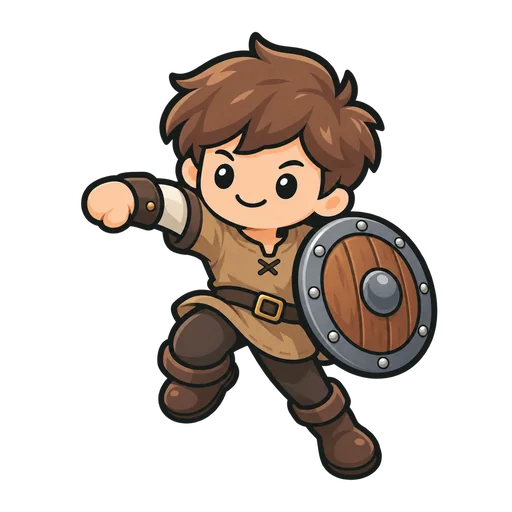
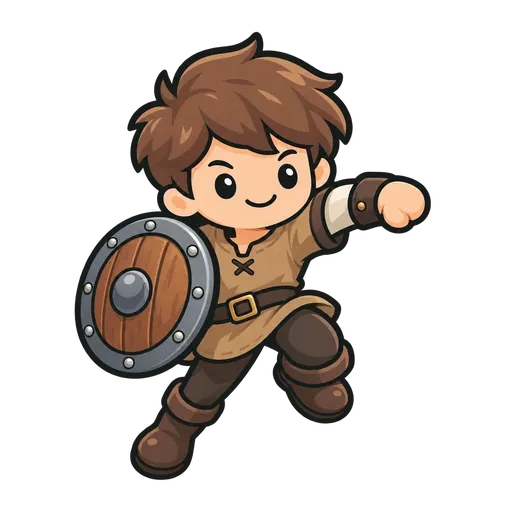
Hero pictures stored facing right (toward the monster)
Claude-Session: https://claude.ai/code/session_016qs5P8iCHLFro2wJwMCrvv

diff --git a/index.html b/index.html
@@ -719,9 +719,9 @@ body.onb-open{overflow:hidden}
 .gen-opt.on{border-color:var(--accent);box-shadow:0 0 0 3px color-mix(in srgb,var(--accent) 25%,transparent)}
 .gen-fig{width:110px;height:118px}.gen-fig .hero-svg{width:100%;height:100%}
 .gen-ask{border:1.5px solid color-mix(in srgb,var(--accent) 45%,var(--line));border-radius:12px;padding:10px 12px;display:flex;flex-direction:column;gap:8px}
-.hero-art{position:relative;display:block}.hero-art .ha-in{position:relative;width:100%;height:100%;transform:scaleX(-1)}
+.hero-art{position:relative;display:block}.hero-art .ha-in{position:relative;width:100%;height:100%}
 .hero-art img{position:relative;display:block;width:100%;height:100%;object-fit:contain;pointer-events:none;user-select:none}
-.hero-art .ha-wpn{position:absolute;inset:0;width:100%;height:100%;overflow:visible;pointer-events:none}
+.hero-art .ha-wpn{position:absolute;inset:0;width:100%;height:100%;overflow:visible;pointer-events:none;transform:scaleX(-1)}
 .hero-stage .hs-fig .hero-art{position:relative;z-index:1;width:100%;height:100%}
 .onb-art{width:200px;max-width:70%;height:auto;margin-top:4px}.onb-art.sm{width:150px}
 .play-head{display:flex;align-items:center;gap:10px}.play-head>div{flex:1;min-width:0}.play-art{width:110px;height:auto;flex:none}
@@ -2650,7 +2650,7 @@ function devPanel(){
     ${devStatsHtml()}
     <button class="btn" data-act="devexit" style="background:var(--bad)">${T("devExit")}</button></section>`;
 }
-const APP_VERSION="2026.10.70";
+const APP_VERSION="2026.10.71";
 const SUPPORT_ON=false;   // 「贊助開發者」card: hidden until the official release (still shown in developer mode for preview)   // 年份.月份.版號 — bump the build number on every release, reset to 1 each new month
 function devFooter(){
   return `<div class="dev-foot"><button class="ver" data-act="devtap">${T("version")} ${APP_VERSION}</button>
@@ -4585,7 +4585,7 @@ function heroArt(pose, gOverride){
     wpn=pk?`<svg class="ha-wpn" viewBox="0 0 100 100" aria-hidden="true"><g transform="translate(${x*100} ${y*100}) rotate(${r+45}) scale(-1 1)"><image href="assets/art/${pk}.webp" x="-9.2" y="-32.8" width="42" height="42"/></g></svg>`
       :`<svg class="ha-wpn" viewBox="0 0 100 100" aria-hidden="true"><g transform="translate(${x*100} ${(pose==="idle"?0.645:y)*100}) rotate(${pose==="idle"?0:r}) scale(${pose==="idle"?.55:.42}) translate(${bow?"-28 -32":"-32 -50"})">${weaponGlyph(w)}</g></svg>`; }
   // idle: weapon planted in the ground beside the hero; attack: held in the hand
-  return `<div class="hero-svg hero-art ha-${pose}"><div class="ha-in"><img src="assets/art/hero-${gen}-${pose}.webp" alt="" draggable="false">${wpn}</div></div>`;
+  return `<div class="hero-svg hero-art ha-${pose}"><div class="ha-in"><img src="assets/art/hero-${gen}-${pose}.webp?v=2" alt="" draggable="false">${wpn}</div></div>`;
 }
 setTimeout(()=>{ const g=game(); if(g&&g.gender) ["idle","attack","hurt","win"].forEach(p=>{ const i=new Image(); i.src=`assets/art/hero-${g.gender}-${p}.webp`; }); },3000);
 document.documentElement.lang=HTML_LANG[langKey()]; applyStaticText(); applyMast(); scApply();
